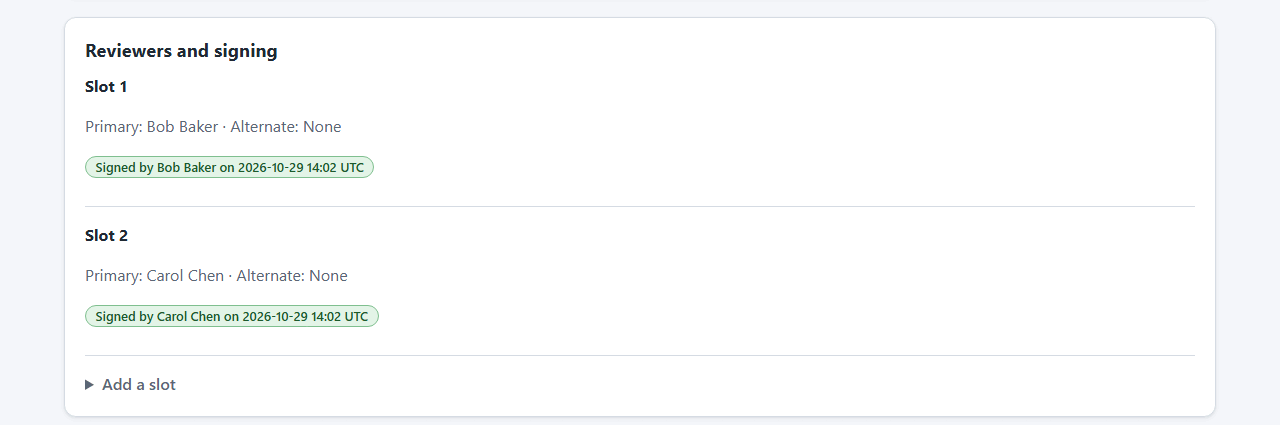
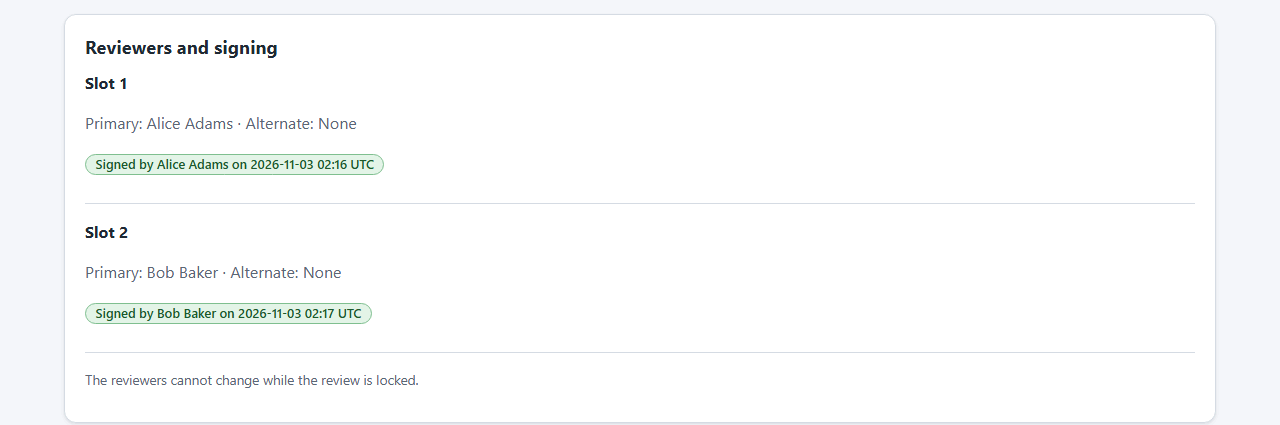
Refresh README and user guide screenshots (#93)
* Refresh README and user guide screenshots

* Shorten screenshot alt text to 120 characters and document settling the review in the Puppet README

---------

diff --git a/docs/user_guide/reviewing.md b/docs/user_guide/reviewing.md
@@ -248,6 +248,8 @@ so for them Disputed is the row that applies: when the ballots differ and are no
 at most one of To answer, Disputed, Ready to sign and Waiting for others for you, and the inbox agrees with the
 next-step line of the review page. **To answer** opens the checklist, where your ballot is.
 
+![The inbox of a reviewer, with the reviews to answer and the reviews ready to sign.](images/review-inbox.png)
+
 A **Question for you** row opens the review page, where the thread is. A thread has no addressee, so ReviewCenter guesses:
 an open question that someone else started, in which you have not written yet, is shown to every slot holder of the
 review who may take part (the author of the review is told by Replies waiting instead).
@@ -323,6 +325,8 @@ It shows:
   has not handed in a ballot still sees each change with its time and who made it, but the details of hidden answers,
   comments and discussions about checks are replaced by one neutral sentence until the ballot is handed in.
 
+![The Where are we? panel: two ballots in, a dispute, open threads, and the next step.](images/review-status-panel.png)
+
 ## Review Comments
 
 Select a file on the review page to read it as numbered lines and to discuss it in comment threads. The line at the
@@ -338,7 +342,7 @@ All when the review is concluded or has only resolved threads, so that the list 
 row to show that thread: its file is selected, its lines are highlighted, and the page scrolls to them. The summary line
 above shows the number of open questions and open findings.
 
-![A side-by-side diff of a review file with one open and one resolved thread.](images/review-diff-thread.png)
+![A side-by-side diff with a gray Question thread and an amber Finding thread.](images/review-diff-thread.png)
 
 Every thread is one of two kinds. A **Question** is a conversation: it is chat, it is not part of the signed record, and
 it is marked with a speech-bubble icon and the word Question. A **Finding** is something that goes into the report: its
@@ -469,7 +473,7 @@ a "Next unanswered check" button that opens the section of the first unanswered 
 Below that, every section is listed with its progress (for example "3 of 8"); only one section is open at a time,
 and the first section with unanswered checks is open when you arrive.
 
-![The checklist page: two sections done, one in progress, and a justified N/A answer.](images/checklist-partial.png)
+![The checklist of a draft ballot: two sections done, one in progress, a justified N/A.](images/checklist-partial.png)
 
 **You answer in the ballot of your reviewer slot.** The checklist is answered by the reviewers of the slots of the
 review (the primary and the alternate of a slot share its ballot). A project member who has no slot can add a new slot
@@ -754,7 +758,7 @@ are open"). When the only thing missing is the conclusion text, the slot says "A
 stating the reasons". Each signature records your name, your role in the slot (primary or alternate), the UTC time, the
 outcome you signed (Approved or Rejected), and the statement.
 
-![The signing form of a reviewer slot with the statement and password confirmation.](images/signature-confirmation.png)
+![The signing form: the outcome you sign, the statement, and password confirmation.](images/signature-confirmation.png)
 
 **What a signature covers.** A signature is bound to the record as it was when you signed. The record is the content
 fingerprint of the files, the wording of every checklist question, the consolidated standing of the submitted ballots
@@ -975,7 +979,7 @@ fingerprint**, a SHA-256 value of those ballots, so that a later change of a bal
 for a concluded review, because only then every slot has handed in its ballot, and never as a draft. The reviewer names
 and the checklist wording follow the evidence settings (see below).
 
-![An approved review with the Download attestation (PDF) button and the signing key note.](images/review-signed.png)
+![An approved review with the status panel, the resolved finding, and the attestation button.](images/review-signed.png)
 
 **What the PDF contains follows the evidence settings of the project.** Every attestation PDF of a project, whoever
 downloads it, honors the five content switches of the project: the review discussion threads (the findings), the

diff --git a/tools/puppet/README.md b/tools/puppet/README.md
@@ -118,14 +118,37 @@ Actions fail after about 5 seconds so a wrong selector costs little.
 
 The screenshots in `docs/user_guide/images/` are taken with Puppet against a throwaway instance, never against real
 data. Point `Database__ConnectionString`, `DataProtection__KeysPath`, `Attestation__SelfSignedFolder`, and
-`Git__CachePath` at a temporary folder outside the repository, create two or three users with `user add`, run `serve`,
-and start Puppet with `--viewport 1280x800`. Seed a small project with a repository (or an upload), threaded comments,
-a partly answered checklist, and a signed review through the UI, then take each picture with
-`puppet screenshot <file> --full` in the light theme (plus one review with `puppet theme dark`). Crop each picture to
-its content and shrink it, for example
+`Git__CachePath` at a temporary folder outside the repository, create three users with `user add` (one administrator
+and two reviewers, for example Carol Chen, Alice Adams, and Bob Baker), run `serve`, and start Puppet with
+`--viewport 1280x800`. Use one Puppet daemon for each person at a time (at most two): give each its own
+`REVIEWCENTER_PUPPET_CONTROL_FILE` so that two people can be signed in side by side.
+
+Seed one project ("Warehouse Inventory") with a Git repository and three reviews through the UI:
+
+- A review that is fully answered and handed in by both reviewers. It fills the inbox.
+- A review that is only partly answered, with a justified N/A answer. It gives the checklist picture.
+- A review whose ballots differ on one check, with a Question and a Finding thread in the diff. It gives the status
+  panel (take that picture while the dispute and the threads are still open) and both diff pictures. Then settle it:
+  resolve the threads; because a disputed check blocks signing, the reviewer whose answer differs changes it to the
+  other answer (not a Fail, which would make the review Rejected) and hands the ballot in again with **Submit ballot**
+  (an edit turns a handed-in ballot back into a draft); then sign with both slots. It becomes the approved review
+  with the attestation PDF.
+
+Take each picture with `puppet screenshot <file> --full` in the light theme (plus the diff with `puppet theme dark`,
+after a pause of about a second). Crop each picture to its content and shrink it, for example
 `magick raw.png -crop 1280x700+0+120 +repage -strip -colors 256 +dither PNG8:out.png`
 (at most about 150 KB each, 1280 pixels wide), leave the page footer out, and stop the server and Puppet by process ID
-afterward.
+afterward. No script is kept for this: the data is small, and the pictures change only when the pages do.
+
+| Picture | Page |
+| ------- | ---- |
+| `review-inbox.png` | Inbox of a reviewer |
+| `review-status-panel.png` | Review with open threads and a dispute |
+| `review-diff-thread.png`, `review-diff-dark.png` | Diff with a Question and a Finding |
+| `review-signed.png`, `review-signatures.png` | Approved review |
+| `signature-confirmation.png` | Signing form, password typed, not yet signed |
+| `checklist-partial.png` | Checklist of the partly answered review |
+| `home-after-sign-in.png`, `audit-trail.png` | Home page and Audit page of the administrator |
 
 ## Known limitation
 

diff --git a/README.md b/README.md
@@ -13,7 +13,11 @@
 
 Web service and command-line tool for formal code reviews with a tamper-evident audit trail
 
-![A review as a side-by-side diff with a discussion thread][image-review-diff-thread]
+![A reviewer's inbox with the reviews to answer and the reviews ready to sign][image-review-inbox]
+
+![A review page with the Where are we? status panel and its next step][image-review-status-panel]
+
+![A side-by-side diff with a Question thread and a Finding thread][image-review-diff-thread]
 
 ![An approved review with the signed attestation PDF download][image-review-signed]
 
@@ -137,6 +141,8 @@ By contributing to this project, you agree that your contributions will be licen
 [badge-security]: https://sonarcloud.io/api/project_badges/measure?project=demaconsulting_ReviewCenter&metric=security_rating
 
 <!-- Image References -->
+[image-review-inbox]: https://raw.githubusercontent.com/demaconsulting/ReviewCenter/main/docs/user_guide/images/review-inbox.png
+[image-review-status-panel]: https://raw.githubusercontent.com/demaconsulting/ReviewCenter/main/docs/user_guide/images/review-status-panel.png
 [image-review-diff-thread]: https://raw.githubusercontent.com/demaconsulting/ReviewCenter/main/docs/user_guide/images/review-diff-thread.png
 [image-review-signed]: https://raw.githubusercontent.com/demaconsulting/ReviewCenter/main/docs/user_guide/images/review-signed.png
 

diff --git a/docs/user_guide/sign-in.md b/docs/user_guide/sign-in.md
@@ -43,7 +43,7 @@ never prints the password. Further users are created on the Users page by a syst
 be created (the user name is taken, the password is too short, no password was provided, or the database cannot be
 used) it prints an error and exits with a non-zero exit code.
 
-![The home page after first sign-in, with links to Projects, Audit, and Users.](images/home-after-sign-in.png)
+![The home page after first sign-in, with links to Inbox, Projects, Audit, and Users.](images/home-after-sign-in.png)
 
 ## Sign In and Out
 
@@ -215,7 +215,7 @@ dark setting of your device; **Light** and **Dark** always use that theme. The c
 it and is remembered in this browser only: it is not an account setting, so another browser or device starts with
 **System** again.
 
-![A review in the dark theme, with a resolved thread open in the side-by-side diff.](images/review-diff-dark.png)
+![A review in the dark theme, with a Question and a Finding thread in the diff.](images/review-diff-dark.png)
 
 To change your password, enter the current password and the new
 password, and press the change button. If your account has a second factor (see
